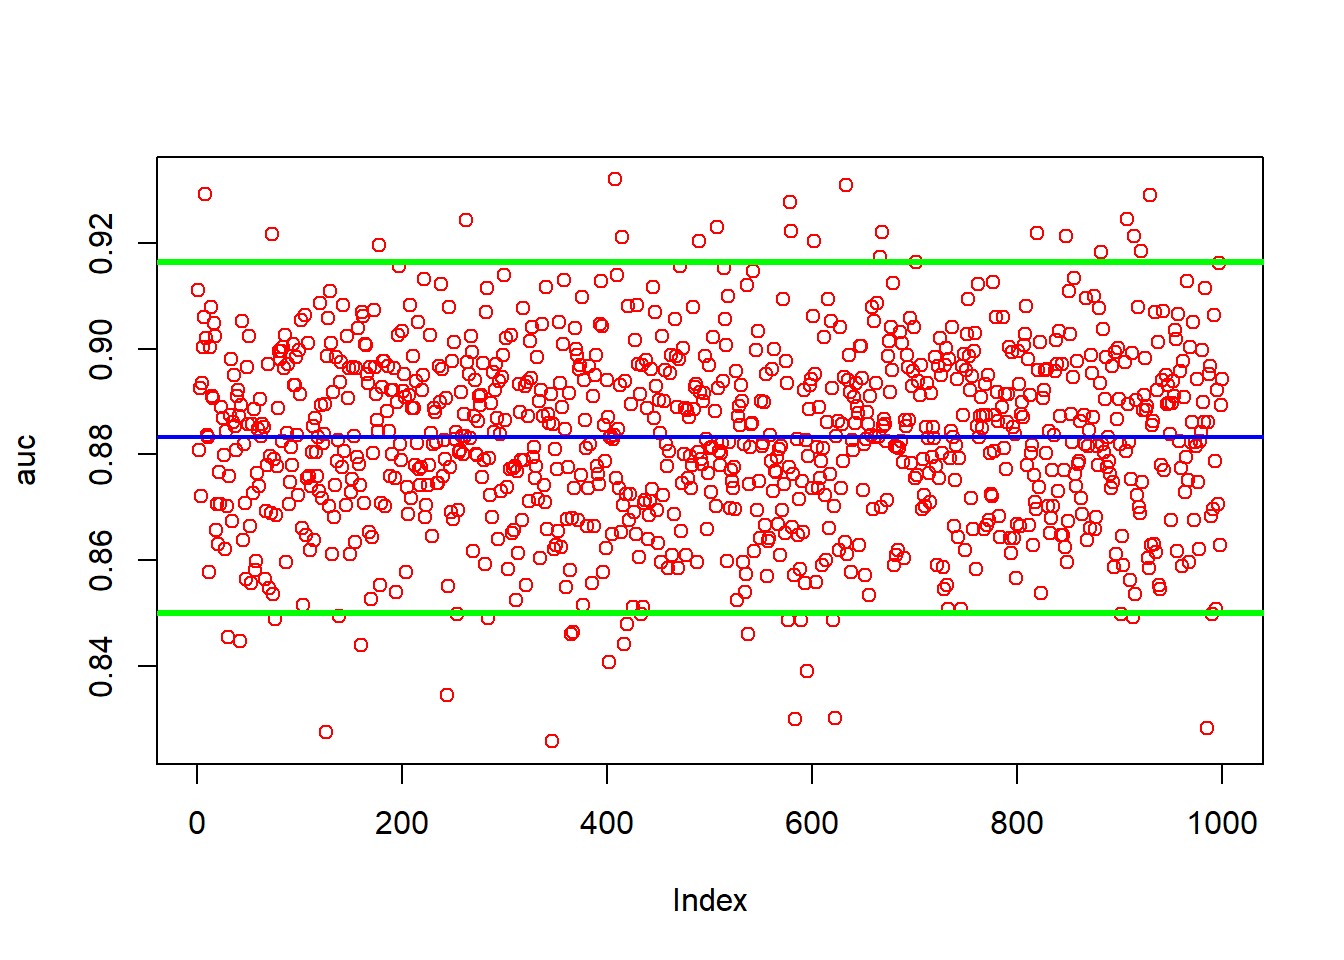
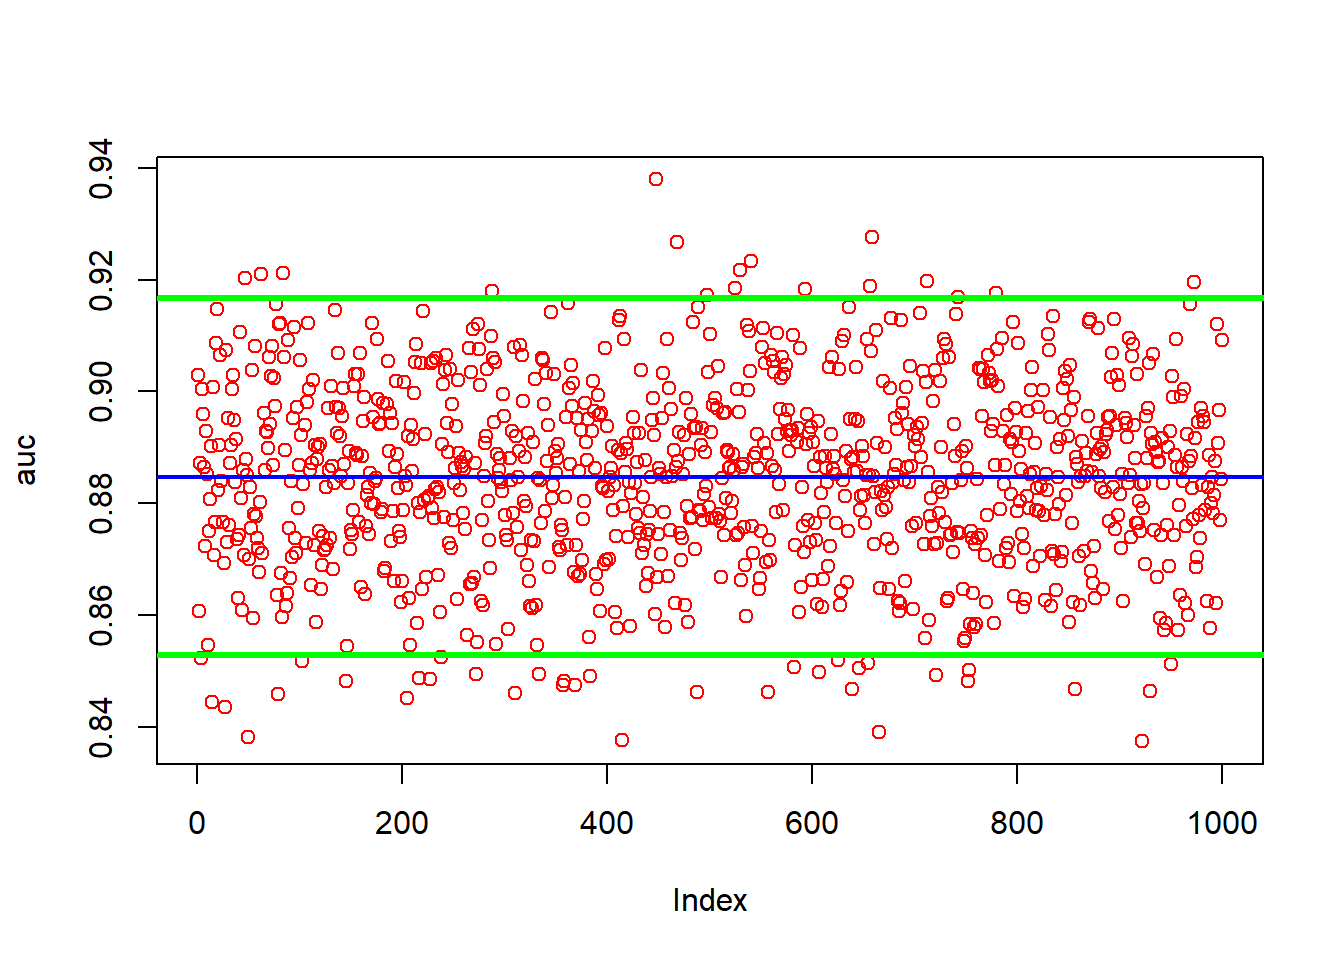
xgb2

Changed region(s): [[0.125, 0.25, 0.9375, 0.7188], [0.0625, 0.125, 0.0938, 0.7812], [0.1562, 0.7188, 0.1875, 0.75]]

diff --git a/docs/XGB_2.html b/docs/XGB_2.html
@@ -668,22 +668,22 @@ method</p>
 <div id="validating" class="section level3">
 <h3>Validating</h3>
 <div class="sourceCode" id="cb10"><pre class="sourceCode r"><code class="sourceCode r"><span id="cb10-1"><a href="#cb10-1" tabindex="-1"></a>grid <span class="ot">&lt;-</span> <span class="fu">expand.grid</span>(</span>
-<span id="cb10-2"><a href="#cb10-2" tabindex="-1"></a>  <span class="at">eta =</span> <span class="fu">seq</span>(<span class="fl">0.1</span>, <span class="fl">0.1</span>, <span class="at">by =</span> <span class="dv">0</span>), </span>
-<span id="cb10-3"><a href="#cb10-3" tabindex="-1"></a>  <span class="at">max_depth =</span> <span class="fu">seq</span>(<span class="dv">16</span>, <span class="dv">20</span>, <span class="at">by =</span> <span class="dv">4</span>),</span>
-<span id="cb10-4"><a href="#cb10-4" tabindex="-1"></a>  <span class="at">min_child_weight =</span> <span class="fu">seq</span>(<span class="dv">1</span>, <span class="dv">1</span>, <span class="at">by =</span> <span class="dv">1</span>), </span>
-<span id="cb10-5"><a href="#cb10-5" tabindex="-1"></a>  <span class="at">subsample =</span> <span class="fu">seq</span>(<span class="fl">0.8</span>, <span class="fl">0.8</span>, <span class="at">by =</span> <span class="dv">0</span>), </span>
-<span id="cb10-6"><a href="#cb10-6" tabindex="-1"></a>  <span class="at">colsample_bytree =</span> <span class="fu">seq</span>(<span class="dv">1</span>, <span class="dv">1</span>, <span class="at">by =</span> <span class="dv">0</span>),</span>
-<span id="cb10-7"><a href="#cb10-7" tabindex="-1"></a>  <span class="at">lambda =</span> <span class="fu">seq</span>(<span class="dv">4</span>, <span class="dv">10</span>, <span class="at">by =</span> <span class="dv">2</span>), </span>
-<span id="cb10-8"><a href="#cb10-8" tabindex="-1"></a>  <span class="at">alpha =</span> <span class="fu">seq</span>(<span class="dv">0</span>, <span class="dv">3</span>, <span class="at">by =</span> <span class="dv">1</span>), </span>
-<span id="cb10-9"><a href="#cb10-9" tabindex="-1"></a>  <span class="at">gamma =</span> <span class="fu">seq</span>(<span class="dv">0</span>, <span class="dv">5</span>, <span class="at">by =</span> <span class="dv">1</span>), </span>
-<span id="cb10-10"><a href="#cb10-10" tabindex="-1"></a>  <span class="at">nrounds =</span> <span class="fu">c</span>(<span class="dv">50</span>, <span class="dv">100</span>, <span class="dv">125</span>, <span class="dv">150</span>) </span>
+<span id="cb10-2"><a href="#cb10-2" tabindex="-1"></a>  <span class="at">eta =</span> <span class="fu">seq</span>(<span class="fl">0.09</span>, <span class="fl">0.11</span>, <span class="at">by =</span> <span class="fl">0.01</span>), </span>
+<span id="cb10-3"><a href="#cb10-3" tabindex="-1"></a>  <span class="at">max_depth =</span> <span class="fu">seq</span>(<span class="dv">1</span>, <span class="dv">10</span>, <span class="at">by =</span> <span class="dv">9</span>),  </span>
+<span id="cb10-4"><a href="#cb10-4" tabindex="-1"></a>  <span class="at">min_child_weight =</span> <span class="fu">seq</span>(<span class="dv">1</span>, <span class="dv">19</span>, <span class="at">by =</span> <span class="dv">4</span>),  </span>
+<span id="cb10-5"><a href="#cb10-5" tabindex="-1"></a>  <span class="at">subsample =</span> <span class="fu">seq</span>(<span class="fl">0.6</span>, <span class="fl">0.9</span>, <span class="at">by =</span> <span class="fl">0.1</span>), </span>
+<span id="cb10-6"><a href="#cb10-6" tabindex="-1"></a>  <span class="at">colsample_bytree =</span> <span class="fu">seq</span>(<span class="dv">1</span>, <span class="dv">1</span>, <span class="at">by =</span> <span class="dv">0</span>), </span>
+<span id="cb10-7"><a href="#cb10-7" tabindex="-1"></a>  <span class="at">lambda =</span> <span class="fu">seq</span>(<span class="dv">4</span>, <span class="dv">12</span>, <span class="at">by =</span> <span class="dv">4</span>), </span>
+<span id="cb10-8"><a href="#cb10-8" tabindex="-1"></a>  <span class="at">alpha =</span> <span class="fu">seq</span>(<span class="dv">0</span>, <span class="dv">4</span>, <span class="at">by =</span> <span class="dv">2</span>),  </span>
+<span id="cb10-9"><a href="#cb10-9" tabindex="-1"></a>  <span class="at">gamma =</span> <span class="fu">seq</span>(<span class="dv">0</span>, <span class="dv">6</span>, <span class="at">by =</span> <span class="dv">2</span>),  </span>
+<span id="cb10-10"><a href="#cb10-10" tabindex="-1"></a>  <span class="at">nrounds =</span> <span class="fu">c</span>(<span class="dv">200</span>, <span class="dv">300</span>)  </span>
 <span id="cb10-11"><a href="#cb10-11" tabindex="-1"></a>)</span></code></pre></div>
 <div class="sourceCode" id="cb11"><pre class="sourceCode r"><code class="sourceCode r"><span id="cb11-1"><a href="#cb11-1" tabindex="-1"></a>conf_lev <span class="ot">&lt;-</span> .<span class="dv">95</span></span>
 <span id="cb11-2"><a href="#cb11-2" tabindex="-1"></a>num_max <span class="ot">&lt;-</span> <span class="dv">5</span> <span class="co"># Define number around the maximum</span></span>
 <span id="cb11-3"><a href="#cb11-3" tabindex="-1"></a>n <span class="ot">&lt;-</span> <span class="fu">log</span>(<span class="dv">1</span><span class="sc">-</span>conf_lev)<span class="sc">/</span><span class="fu">log</span>(<span class="dv">1</span><span class="sc">-</span>num_max<span class="sc">/</span><span class="fu">nrow</span>(grid))</span>
 <span id="cb11-4"><a href="#cb11-4" tabindex="-1"></a>ind <span class="ot">&lt;-</span> <span class="fu">sample</span>(<span class="fu">nrow</span>(grid), <span class="fu">nrow</span>(grid)<span class="sc">*</span>(n<span class="sc">/</span><span class="fu">nrow</span>(grid)), <span class="at">replace =</span> <span class="cn">FALSE</span>)</span>
 <span id="cb11-5"><a href="#cb11-5" tabindex="-1"></a>rgrid <span class="ot">&lt;-</span> grid[ind, ]</span></code></pre></div>
-<div class="sourceCode" id="cb12"><pre class="sourceCode r"><code class="sourceCode r"><span id="cb12-1"><a href="#cb12-1" tabindex="-1"></a>v <span class="ot">&lt;-</span> <span class="dv">250</span></span>
+<div class="sourceCode" id="cb12"><pre class="sourceCode r"><code class="sourceCode r"><span id="cb12-1"><a href="#cb12-1" tabindex="-1"></a>v <span class="ot">&lt;-</span> <span class="dv">200</span></span>
 <span id="cb12-2"><a href="#cb12-2" tabindex="-1"></a></span>
 <span id="cb12-3"><a href="#cb12-3" tabindex="-1"></a><span class="co"># Call the modified run_xgb function</span></span>
 <span id="cb12-4"><a href="#cb12-4" tabindex="-1"></a>vr <span class="ot">&lt;-</span> <span class="fu">run_xgb</span>(xs, y, rgrid, v)</span></code></pre></div>
@@ -697,20 +697,20 @@ method</p>
 <pre><code>## # A tibble: 6 × 10
 ##     eta max_depth min_child_weight subsample colsample_bytree lambda alpha gamma
 ##   &lt;dbl&gt;     &lt;dbl&gt;            &lt;dbl&gt;     &lt;dbl&gt;            &lt;dbl&gt;  &lt;dbl&gt; &lt;dbl&gt; &lt;dbl&gt;
-## 1   0.1        20                1       0.8                1      8     1     5
-## 2   0.1        20                1       0.8                1      6     2     5
-## 3   0.1        20                1       0.8                1      4     1     0
-## 4   0.1        16                1       0.8                1      4     0     3
-## 5   0.1        16                1       0.8                1      8     1     3
-## 6   0.1        16                1       0.8                1      6     1     4
+## 1  0.11         1                9       0.9                1     12     0     6
+## 2  0.09         1               13       0.7                1      8     2     2
+## 3  0.1         10                1       0.7                1      4     2     4
+## 4  0.1         10                1       0.9                1     12     2     6
+## 5  0.09         1                9       0.7                1      4     2     0
+## 6  0.11         1               17       0.9                1      8     0     2
 ##   nrounds AUC_Mean
 ##     &lt;dbl&gt;    &lt;dbl&gt;
-## 1     150    0.865
-## 2     100    0.861
-## 3      50    0.880
-## 4     125    0.879
-## 5     150    0.871
-## 6     100    0.868</code></pre>
+## 1     300    0.853
+## 2     200    0.861
+## 3     300    0.867
+## 4     200    0.854
+## 5     300    0.860
+## 6     300    0.862</code></pre>
 </div>
 <div id="testing" class="section level3">
 <h3>Testing</h3>
@@ -726,20 +726,20 @@ method</p>
 <pre><code>## # A tibble: 6 × 11
 ##     eta max_depth min_child_weight subsample colsample_bytree lambda alpha gamma
 ##   &lt;dbl&gt;     &lt;dbl&gt;            &lt;dbl&gt;     &lt;dbl&gt;            &lt;dbl&gt;  &lt;dbl&gt; &lt;dbl&gt; &lt;dbl&gt;
-## 1   0.1        20                1       0.8                1      4     1     0
-## 2   0.1        16                1       0.8                1     10     0     0
-## 3   0.1        16                1       0.8                1     10     1     0
-## 4   0.1        16                1       0.8                1      8     1     0
-## 5   0.1        20                1       0.8                1      8     1     0
-## 6   0.1        16                1       0.8                1     10     1     0
+## 1  0.1         10                1       0.6                1      4     2     0
+## 2  0.09        10                1       0.7                1      8     0     0
+## 3  0.11        10                1       0.6                1      8     0     0
+## 4  0.1         10                1       0.7                1     12     2     0
+## 5  0.11        10                1       0.7                1      4     4     0
+## 6  0.1         10                1       0.9                1      4     4     0
 ##   nrounds AUC_Mean mean_auc
 ##     &lt;dbl&gt;    &lt;dbl&gt;    &lt;dbl&gt;
-## 1     100    0.887    0.884
-## 2     100    0.886    0.884
-## 3     150    0.886    0.885
-## 4     150    0.886    0.884
-## 5     150    0.885    0.884
-## 6     125    0.885    0.884</code></pre>
+## 1     300    0.885    0.883
+## 2     200    0.885    0.883
+## 3     200    0.885    0.883
+## 4     300    0.885    0.883
+## 5     200    0.885    0.883
+## 6     200    0.885    0.882</code></pre>
 </div>
 </div>
 </div>
@@ -753,18 +753,18 @@ method</p>
 <pre><code>## # A tibble: 1 × 11
 ##     eta max_depth min_child_weight subsample colsample_bytree lambda alpha gamma
 ##   &lt;dbl&gt;     &lt;dbl&gt;            &lt;dbl&gt;     &lt;dbl&gt;            &lt;dbl&gt;  &lt;dbl&gt; &lt;dbl&gt; &lt;dbl&gt;
-## 1   0.1        20                1       0.8                1      6     1     0
+## 1  0.09        10                1       0.6                1      4     2     0
 ##   nrounds AUC_Mean mean_auc
 ##     &lt;dbl&gt;    &lt;dbl&gt;    &lt;dbl&gt;
-## 1     125    0.884    0.885</code></pre>
+## 1     200    0.885    0.885</code></pre>
 <div class="sourceCode" id="cb21"><pre class="sourceCode r"><code class="sourceCode r"><span id="cb21-1"><a href="#cb21-1" tabindex="-1"></a>r <span class="ot">&lt;-</span> <span class="dv">1000</span></span>
 <span id="cb21-2"><a href="#cb21-2" tabindex="-1"></a>auc <span class="ot">&lt;-</span> <span class="fu">test_auc</span>(xs, y, best_hp, r)</span>
 <span id="cb21-3"><a href="#cb21-3" tabindex="-1"></a></span>
 <span id="cb21-4"><a href="#cb21-4" tabindex="-1"></a>mauc <span class="ot">&lt;-</span> <span class="fu">mean</span>(auc)</span>
 <span id="cb21-5"><a href="#cb21-5" tabindex="-1"></a>mauc</span></code></pre></div>
-<pre><code>## [1] 0.8832435</code></pre>
+<pre><code>## [1] 0.8847632</code></pre>
 <div class="sourceCode" id="cb23"><pre class="sourceCode r"><code class="sourceCode r"><span id="cb23-1"><a href="#cb23-1" tabindex="-1"></a><span class="fu">sd</span>(auc)</span></code></pre></div>
-<pre><code>## [1] 0.01693004</code></pre>
+<pre><code>## [1] 0.01632887</code></pre>
 <p>As we can see our results are much better even with a small grid</p>
 <div class="sourceCode" id="cb25"><pre class="sourceCode r"><code class="sourceCode r"><span id="cb25-1"><a href="#cb25-1" tabindex="-1"></a><span class="fu">plot</span>(auc, <span class="at">col=</span><span class="st">&quot;red&quot;</span>)</span>
 <span id="cb25-2"><a href="#cb25-2" tabindex="-1"></a><span class="fu">abline</span>(<span class="at">a =</span> <span class="fu">mean</span>(auc), <span class="at">b =</span> <span class="dv">0</span>, <span class="at">col =</span> <span class="st">&quot;blue&quot;</span>, <span class="at">lwd =</span> <span class="dv">2</span>)</span>
@@ -831,12 +831,43 @@ metric if you want</p>
 <span id="cb26-53"><a href="#cb26-53" tabindex="-1"></a><span class="co"># Calculate and print the average of the best thresholds</span></span>
 <span id="cb26-54"><a href="#cb26-54" tabindex="-1"></a>avg_best_threshold <span class="ot">&lt;-</span> <span class="fu">mean</span>(best_thresholds)</span>
 <span id="cb26-55"><a href="#cb26-55" tabindex="-1"></a><span class="fu">cat</span>(<span class="st">&quot;Average Best Threshold:&quot;</span>, avg_best_threshold, <span class="st">&quot;</span><span class="sc">\n</span><span class="st">&quot;</span>)</span></code></pre></div>
-<pre><code>## Average Best Threshold: 0.4117314</code></pre>
+<pre><code>## Average Best Threshold: 0.4094314</code></pre>
 <div class="sourceCode" id="cb28"><pre class="sourceCode r"><code class="sourceCode r"><span id="cb28-1"><a href="#cb28-1" tabindex="-1"></a><span class="co"># Plot the distribution of max J statistics for each iteration</span></span>
 <span id="cb28-2"><a href="#cb28-2" tabindex="-1"></a><span class="fu">hist</span>(j_stats, <span class="at">col =</span> <span class="st">&quot;blue&quot;</span>, <span class="at">xlab =</span> <span class="st">&quot;Max J Statistic&quot;</span>, <span class="at">ylab =</span> <span class="st">&quot;Frequency&quot;</span>,</span>
 <span id="cb28-3"><a href="#cb28-3" tabindex="-1"></a>     <span class="at">main =</span> <span class="st">&quot;Distribution of Max J Statistics Across Bootstrap Iterations&quot;</span>)</span>
 <span id="cb28-4"><a href="#cb28-4" tabindex="-1"></a><span class="fu">abline</span>(<span class="at">v =</span> <span class="fu">mean</span>(j_stats), <span class="at">col =</span> <span class="st">&quot;red&quot;</span>, <span class="at">lwd =</span> <span class="dv">2</span>) <span class="co"># Mean J Stat line</span></span></code></pre></div>
 <p><img src="XGB_2_files/figure-html/unnamed-chunk-14-1.png" width="672" /></p>
+</div>
+<div id="confusion-table-and-roc" class="section level1">
+<h1>Confusion table and ROC</h1>
+<p>for now this is one run and unreliable but we can loop it and do
+confidence intervals</p>
+<div class="sourceCode" id="cb29"><pre class="sourceCode r"><code class="sourceCode r"><span id="cb29-1"><a href="#cb29-1" tabindex="-1"></a>    ind <span class="ot">&lt;-</span> <span class="fu">sample</span>(<span class="fu">nrow</span>(xs), <span class="at">size =</span> <span class="fu">nrow</span>(xs), <span class="at">replace =</span> <span class="cn">TRUE</span>)</span>
+<span id="cb29-2"><a href="#cb29-2" tabindex="-1"></a>    train_xs <span class="ot">&lt;-</span> xs[ind, ]</span>
+<span id="cb29-3"><a href="#cb29-3" tabindex="-1"></a>    test_xs <span class="ot">&lt;-</span> xs[<span class="sc">-</span>ind, ]</span>
+<span id="cb29-4"><a href="#cb29-4" tabindex="-1"></a>    train_y <span class="ot">&lt;-</span> y[ind]</span>
+<span id="cb29-5"><a href="#cb29-5" tabindex="-1"></a>    test_y <span class="ot">&lt;-</span> y[<span class="sc">-</span>ind]</span>
+<span id="cb29-6"><a href="#cb29-6" tabindex="-1"></a>    dtrain <span class="ot">&lt;-</span> <span class="fu">xgb.DMatrix</span>(<span class="at">data =</span> train_xs, <span class="at">label =</span> train_y)</span>
+<span id="cb29-7"><a href="#cb29-7" tabindex="-1"></a>    dtest <span class="ot">&lt;-</span> <span class="fu">xgb.DMatrix</span>(<span class="at">data =</span> test_xs, <span class="at">label =</span> test_y)</span>
+<span id="cb29-8"><a href="#cb29-8" tabindex="-1"></a></span>
+<span id="cb29-9"><a href="#cb29-9" tabindex="-1"></a>xgbmdl_final <span class="ot">&lt;-</span> <span class="fu">xgb.train</span>(<span class="at">params =</span> params, <span class="at">data =</span> dtrain, <span class="at">nrounds =</span> best_hp<span class="sc">$</span>nrounds, <span class="at">verbose =</span> <span class="dv">0</span>)</span>
+<span id="cb29-10"><a href="#cb29-10" tabindex="-1"></a></span>
+<span id="cb29-11"><a href="#cb29-11" tabindex="-1"></a>final_phat <span class="ot">&lt;-</span> <span class="fu">predict</span>(xgbmdl_final, dtest)</span>
+<span id="cb29-12"><a href="#cb29-12" tabindex="-1"></a></span>
+<span id="cb29-13"><a href="#cb29-13" tabindex="-1"></a>final_predicted_classes <span class="ot">&lt;-</span> <span class="fu">ifelse</span>(final_phat <span class="sc">&gt;</span> avg_best_threshold, <span class="dv">1</span>, <span class="dv">0</span>)</span>
+<span id="cb29-14"><a href="#cb29-14" tabindex="-1"></a></span>
+<span id="cb29-15"><a href="#cb29-15" tabindex="-1"></a>final_test_y_binary <span class="ot">&lt;-</span> <span class="fu">ifelse</span>(test_y <span class="sc">&gt;</span> avg_best_threshold, <span class="dv">1</span>, <span class="dv">0</span>) <span class="co"># Adjusting to binary if not already</span></span>
+<span id="cb29-16"><a href="#cb29-16" tabindex="-1"></a>conf_matrix <span class="ot">&lt;-</span> <span class="fu">table</span>(<span class="at">Predicted =</span> final_predicted_classes, <span class="at">Actual =</span> final_test_y_binary)</span>
+<span id="cb29-17"><a href="#cb29-17" tabindex="-1"></a><span class="fu">print</span>(conf_matrix)</span></code></pre></div>
+<pre><code>##          Actual
+## Predicted   0   1
+##         0 174  23
+##         1  37  87</code></pre>
+<div class="sourceCode" id="cb31"><pre class="sourceCode r"><code class="sourceCode r"><span id="cb31-1"><a href="#cb31-1" tabindex="-1"></a>final_pred_rocr <span class="ot">&lt;-</span> <span class="fu">prediction</span>(final_phat, test_y)</span>
+<span id="cb31-2"><a href="#cb31-2" tabindex="-1"></a>final_perf_rocr <span class="ot">&lt;-</span> <span class="fu">performance</span>(final_pred_rocr, <span class="st">&quot;tpr&quot;</span>, <span class="st">&quot;fpr&quot;</span>)</span>
+<span id="cb31-3"><a href="#cb31-3" tabindex="-1"></a><span class="fu">plot</span>(final_perf_rocr, <span class="at">colorize =</span> <span class="cn">TRUE</span>, <span class="at">main =</span> <span class="st">&quot;ROC Curve&quot;</span>)</span>
+<span id="cb31-4"><a href="#cb31-4" tabindex="-1"></a><span class="fu">abline</span>(<span class="at">a =</span> <span class="dv">0</span>, <span class="at">b =</span> <span class="dv">1</span>, <span class="at">lty =</span> <span class="dv">2</span>) <span class="co"># Reference line</span></span></code></pre></div>
+<p><img src="XGB_2_files/figure-html/unnamed-chunk-15-1.png" width="672" /></p>
 </div>
 
 
